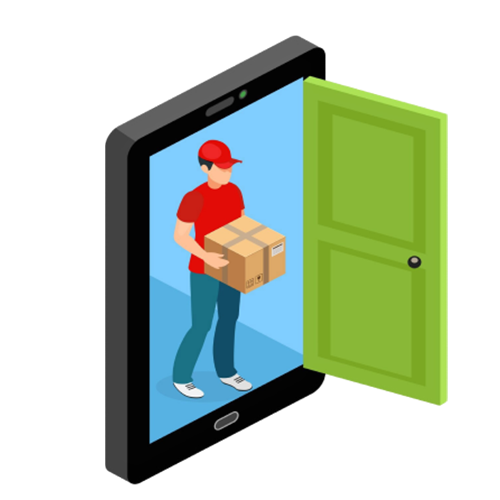
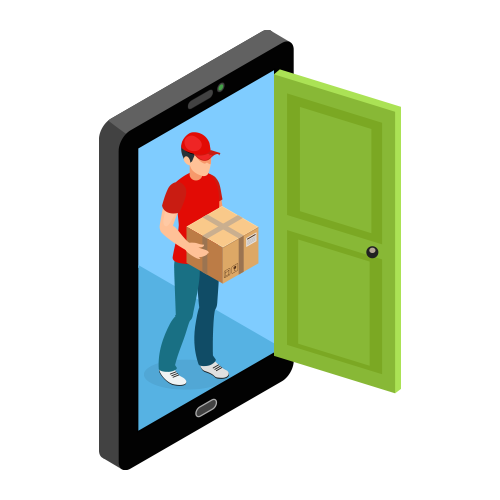
96

Changed region(s): [[0.18, 0.06, 0.9, 0.99]]

diff --git a/src/app/(home)/tyentvskangen/page.jsx b/src/app/(home)/tyentvskangen/page.jsx
@@ -13,6 +13,7 @@ import doorstep from "@/asserts/tyentvskangen/doorstep.png"
 import callmute from "@/asserts/tyentvskangen/callmute.png"
 import Image from "next/image";
 import PriceComp from "../compoents/(Home)/PriceComp";
+import vs from "@/asserts/tyentvskangen/vs.png"
 
 const page = () => {
   const headerData = {
@@ -21,7 +22,7 @@ const page = () => {
     afterheading: "Satisfied Tyent India Customers",
     content:
       "At Tyent India, we take immense pride in the health transformations and positive lifestyle changes our customers experience through our hydrogen-rich alkaline water.",
-    img: smps,
+    img: vs,
     animatedText: "Health, Wellness, Transformation",
   };
 
